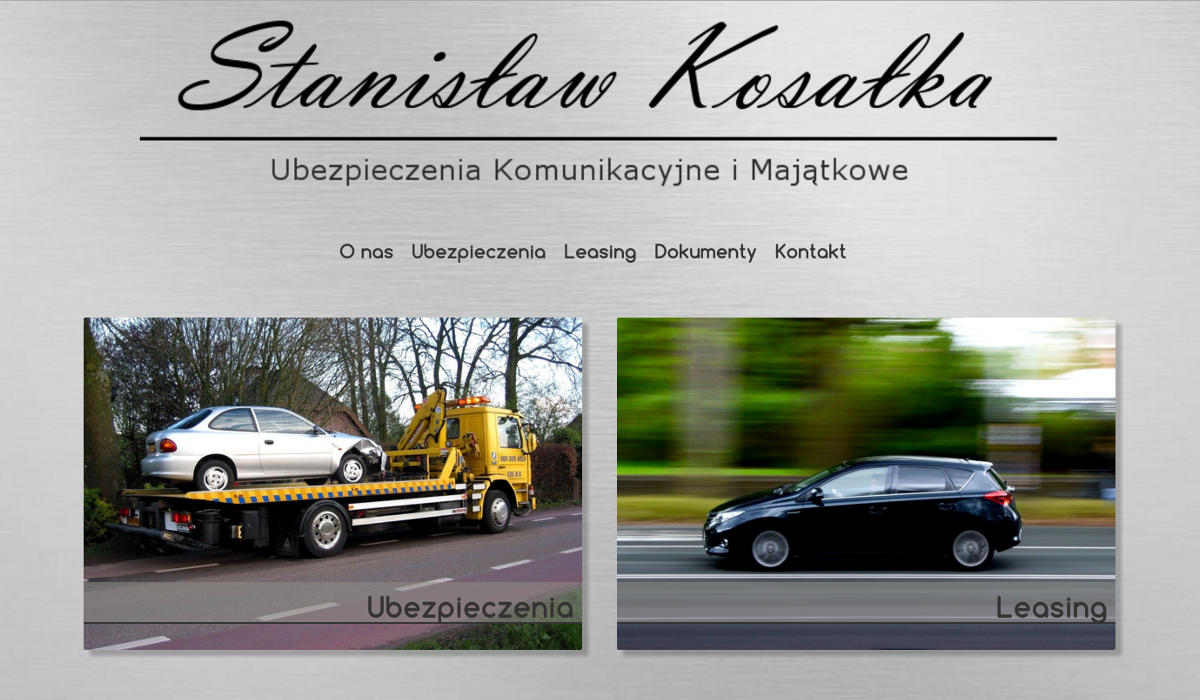
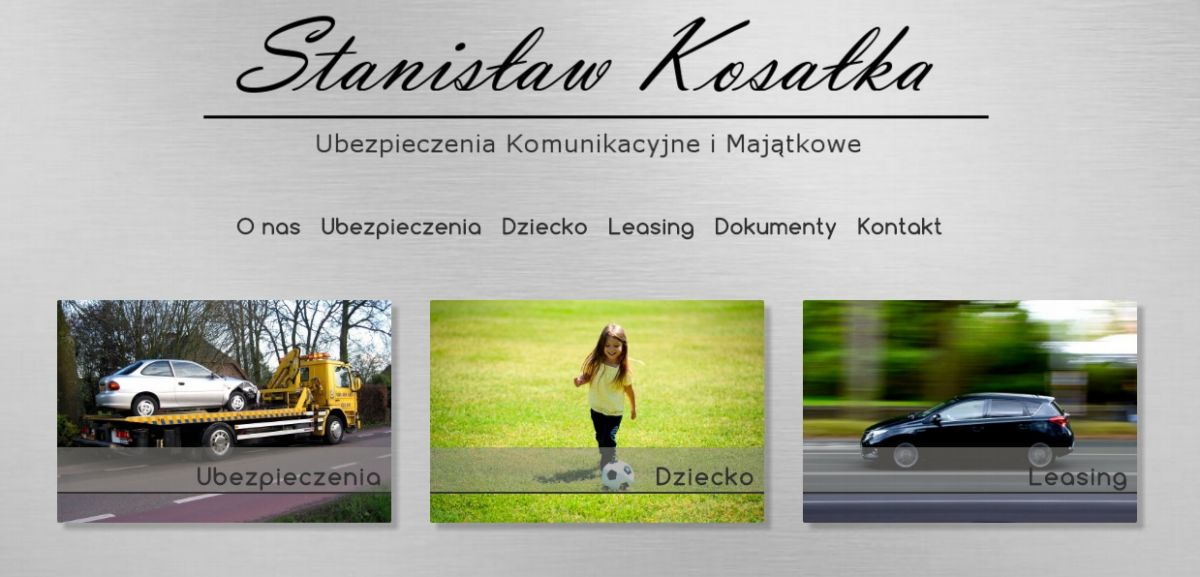
mail & child

diff --git a/index.html b/index.html
@@ -40,7 +40,7 @@
             <ul>
                 <li><a href="#o-nas" class="smoothScroll">O nas</a></li>
                 <li><a href="#ubezpieczenia" class="smoothScroll">Ubezpieczenia</a></li>
-                <li><a href="#bezpieczny" class="smoothScroll">Twoje Dziecko</a></li>
+                <li><a href="#bezpieczny" class="smoothScroll">Dziecko</a></li>
                 <li><a href="#leasing" class="smoothScroll">Leasing</a></li>
                 <li><a href="#dokumenty" class="smoothScroll">Dokumenty</a></li>
                 <li><a href="#kontakt" class="smoothScroll">Kontakt</a></li>
@@ -49,7 +49,7 @@
         </div>
     </div>
     <div class="hidden-xs row row-content strona-glowna" id="strona-glowna">
-        <div class="clearfix col-xs-12 col-lg-offset-2 col-lg-8">
+        <div class="clearfix col-xs-12 col-lg-offset-1 col-lg-10">
             <div class="col-xs-4 hover-effect">
                 <a href="#ubezpieczenia" class="smoothScroll">
                     <img src="img/laweta.jpg">
@@ -58,8 +58,8 @@
             </div>
             <div class="col-xs-4 hover-effect">
                 <a href="#bezpieczny" class="smoothScroll">
-                    <img src="img/bezpieczny.jpg">
-                    <span>Twoje Dziecko</span>
+                    <img src="img/child.jpg">
+                    <span>Dziecko</span>
                 </a>
             </div>
             <div class="col-xs-4 hover-effect">
@@ -169,7 +169,8 @@
             <div class="col-sm-6 col-md-4 col-justify">
                 <a href="https://bezpieczny.pl/"><img src="img/bezpieczny.png"></a><br/>
                 Wejdź na stronę <a href="https://bezpieczny.pl/">bezpieczny.pl</a><br/>
-                Z kodem rabatowym 10% taniej! <b class="code">Kod : 24386</b>
+                Z kodem rabatowym 10% taniej!<br>
+                <b class="code">Kod : 24386</b>
             </div>
 
         </div>
@@ -299,7 +300,7 @@
     if (!window._phantom && !window.callPhantom && !window.__phantomas && !window.Buffer && !window.emit && !window.spawn && !window.webdriver && !window.domAutomation && window.outerWidth != 0 &&
             window.outerHeight != 0 && !window.callPhantom) {
         l = "ainezceipzebu";
-        h = "lp.moc.ainibezrt";
+        h = "moc.ainibezrt";
 
         function reverse(s) {
             return s.split("").reverse().join("");

diff --git a/css/ubez.css b/css/ubez.css
@@ -72,7 +72,7 @@ h2 {
       background: rgba(142, 139, 135, 0.56);
       text-align: right;
       letter-spacing: 2px;
-      font-size: 1.5em;
+      font-size: 1.3em;
       line-height: 33px;
       width: 100%;
       position: absolute;
@@ -84,7 +84,7 @@ h2 {
 .code {
   font-size: xx-large;
   font-weight: 800;
-  padding: 0 10px; }
+}
 
 .text-italic {
   font-style: italic; }

diff --git a/css/ubez.scss b/css/ubez.scss
@@ -88,7 +88,7 @@ h2 {
       background: rgba(142, 139, 135, 0.56);
       text-align: right;
       letter-spacing: 2px;
-      font-size: 1.5em;
+      font-size: 1.3em;
       line-height: 33px;
       width: 100%;
       position: absolute;
@@ -104,7 +104,6 @@ h2 {
 .code {
   font-size: xx-large;
   font-weight: 800;
-  padding: 0 10px;
 }
 
 .text-italic {
